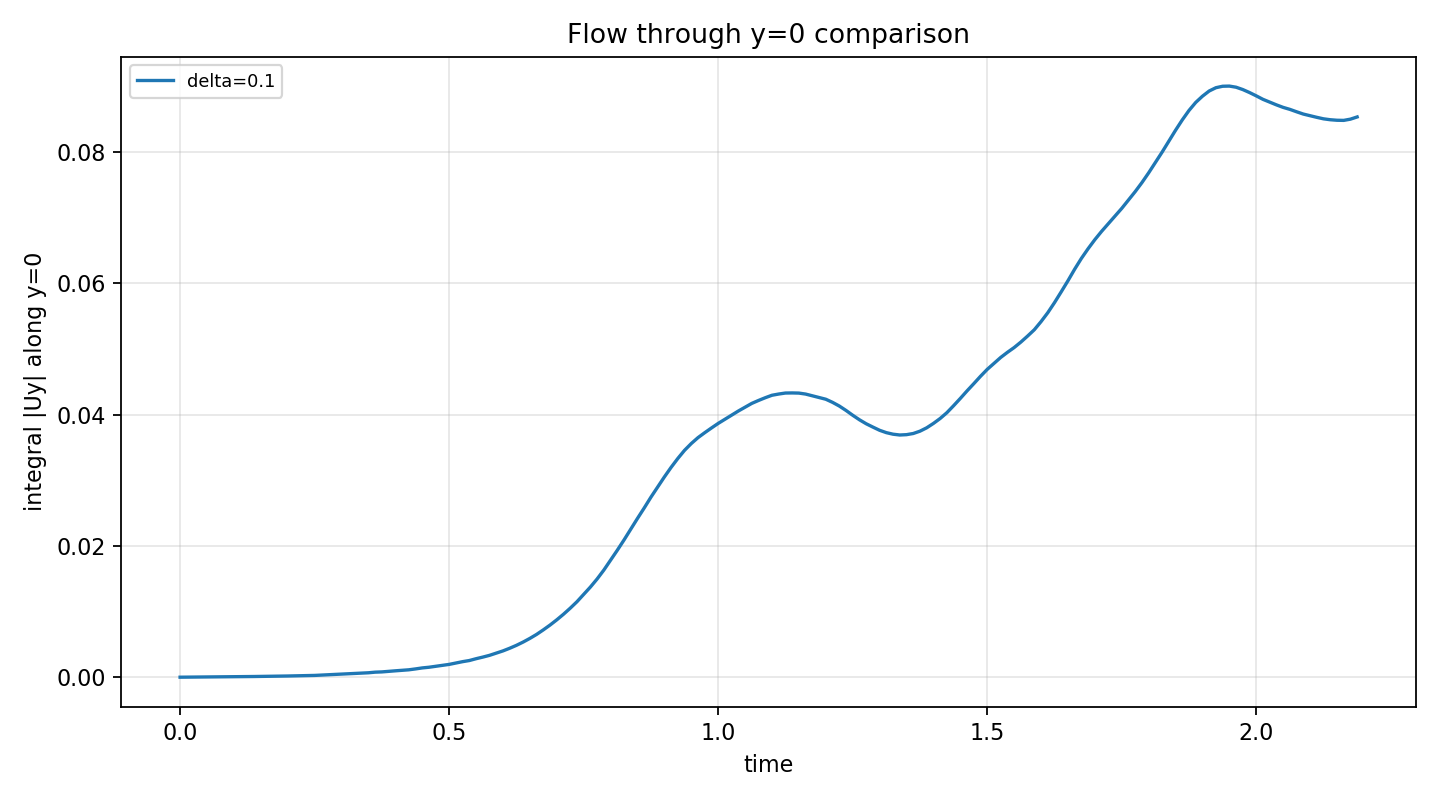
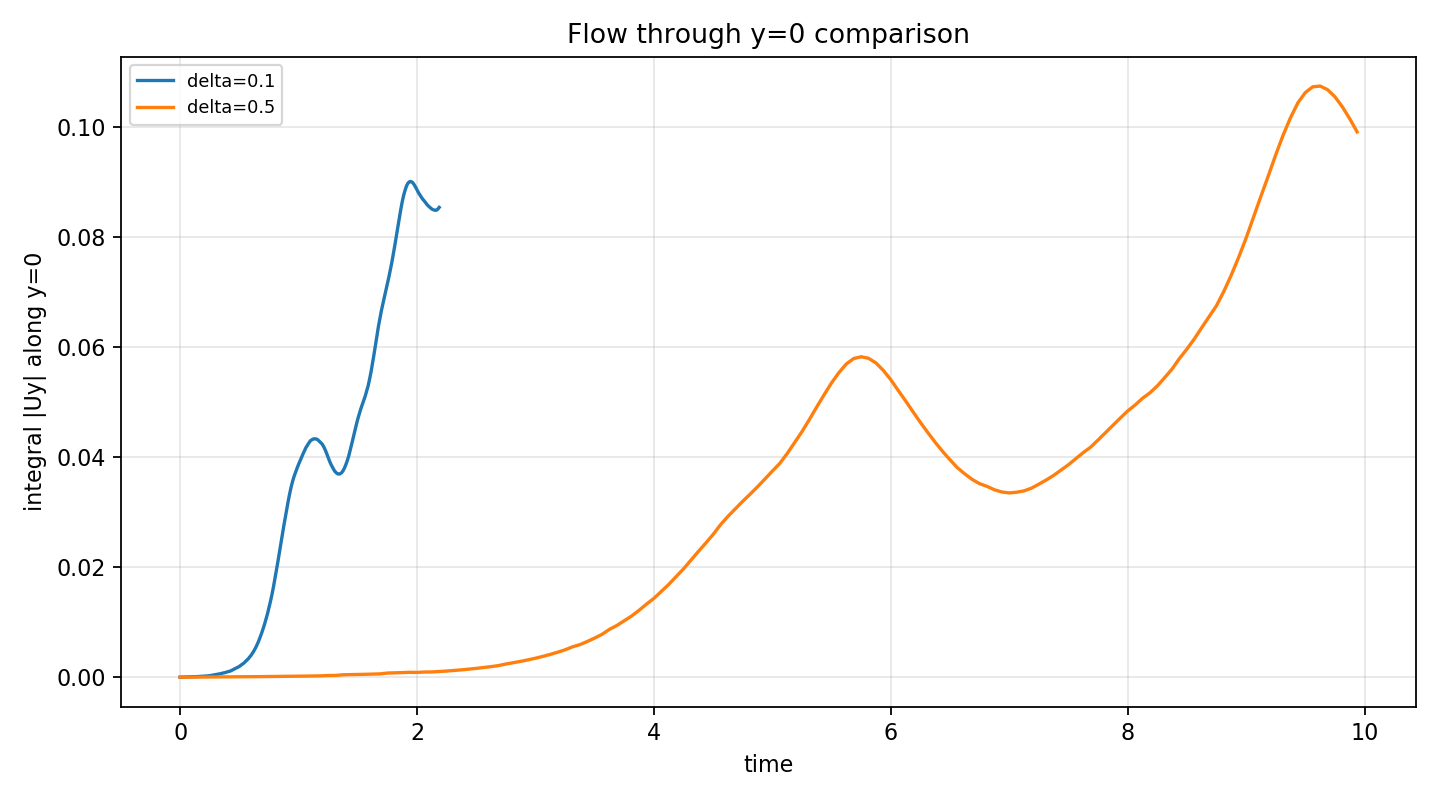
wyniki dla wiekszego delta

diff --git a/kelvin_hemholtz_instablity/scripts/analyze_vortex_results.py b/kelvin_hemholtz_instablity/scripts/analyze_vortex_results.py
@@ -320,7 +320,12 @@ def plot_sheet_snapshots(delta_text, selected_states, output_dir):
 
     n = len(selected_states)
 
-    fig, axes = plt.subplots(n, 1, figsize=(10, 2.6 * n), sharex=True)
+    fig, axes = plt.subplots(
+        n,
+        1,
+        figsize=(10, 2.8 * n),
+        sharex=True
+    )
 
     if n == 1:
         axes = [axes]
@@ -342,13 +347,20 @@ def plot_sheet_snapshots(delta_text, selected_states, output_dir):
         ax.set_ylabel("y")
 
         ax.set_title(
-            f"delta={delta_text}, step={state.step}, t={state.time:.4g}"
+            f"delta={delta_text}, step={state.step}, t={state.time:.4g}",
+            fontsize=10,
+            pad=8
         )
 
     axes[-1].set_xlabel("x")
 
-    fig.suptitle(f"Vortex sheet evolution, delta={delta_text}", fontsize=14)
-    fig.tight_layout()
+    fig.suptitle(
+        f"Vortex sheet evolution, delta={delta_text}",
+        fontsize=15,
+        y=0.995
+    )
+
+    fig.tight_layout(rect=[0.0, 0.0, 1.0, 0.955])
 
     path = output_dir / f"sheet_snapshots_delta_{delta_text}.png"
     fig.savefig(path, dpi=160)

diff --git a/kelvin_hemholtz_instablity/main.cpp b/kelvin_hemholtz_instablity/main.cpp
@@ -607,7 +607,7 @@ int main(int argc, char** argv) {
     double u1 = 2.0;
     double u2 = 1.0;
     double czas_symulacji = 10.0;
-    double delta = 0.1;
+    double delta = 0.5;
 
     if (argc == 6) {
         L = std::atof(argv[1]);
